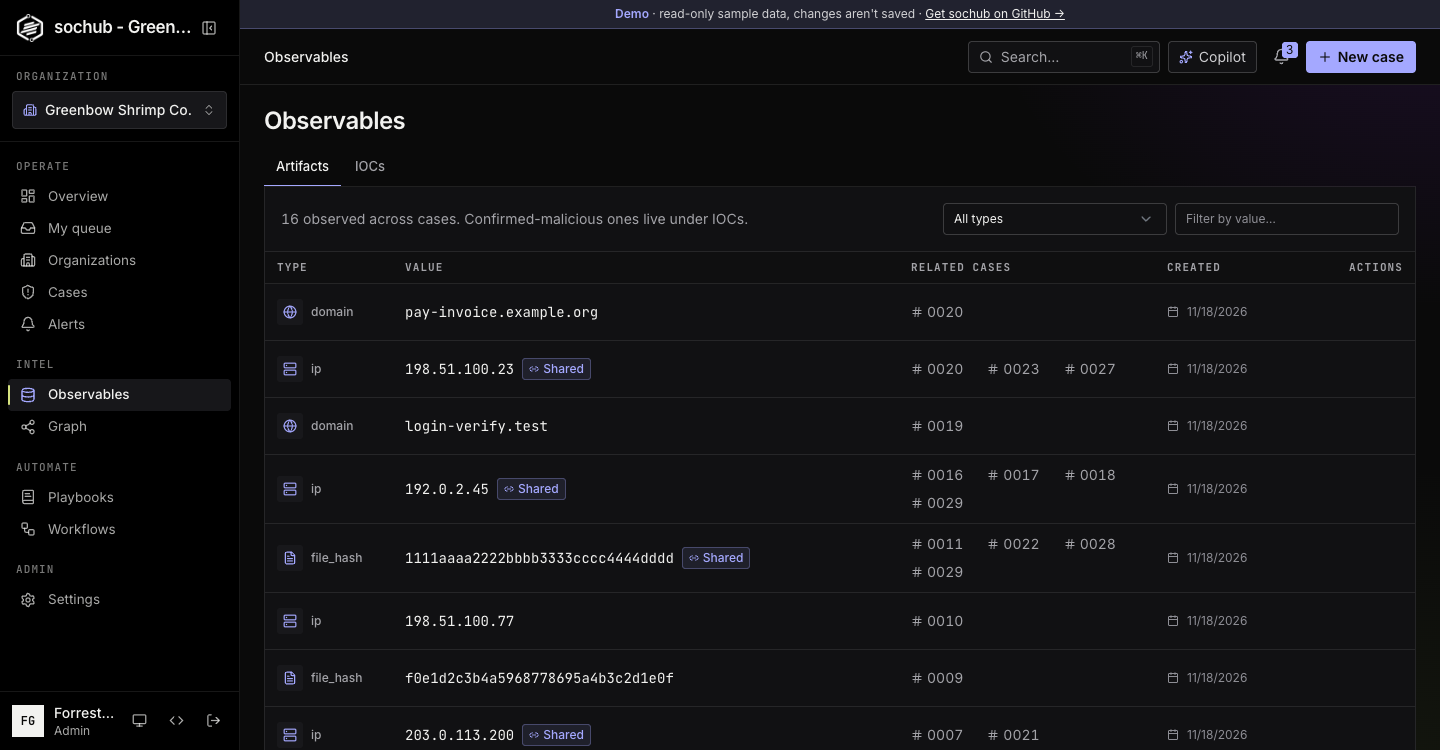
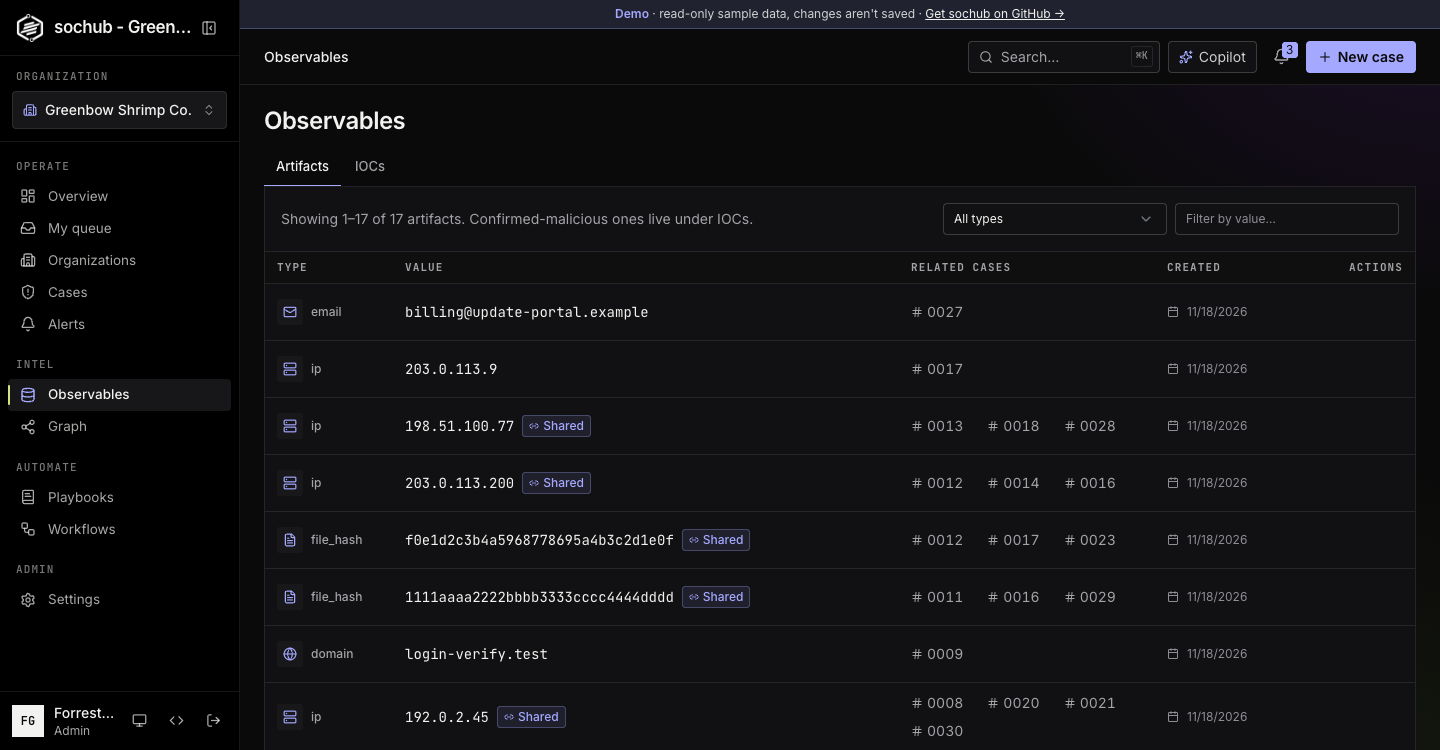
fix(demo): page and filter lists like the server; ci: render the chart with public URLs
The demo answered /cases/, /iocs/ and /artifacts/ with every row, so after
the server-side lists the overview counts and filtered views showed all
cases. The mock now applies the list filters, sort, skip/limit and
X-Total-Count. The demo also seeds two placeholder secrets so Integrations
shows the secrets list. Screenshots are retaken from the rebuilt demo, and
the tour script reads the copilot case id from the fixtures.

Helm CI rendered the chart with default values, which leave frontendUrl and
publicBaseUrl empty, and production mode refuses to render without them.
The default and all-components renders now pass example URLs.

diff --git a/frontend/src/demo/mock.ts b/frontend/src/demo/mock.ts
@@ -55,21 +55,48 @@ export async function installDemo(api: AxiosInstance): Promise<void> {
             return reply(config, 200, new Blob([typeof data === 'string' ? data : JSON.stringify(data)],
                 { type: svg ? 'image/svg+xml' : 'application/json' }));
         }
-        if (path === '/alerts/' && Array.isArray(data)) return alertsPage(config, data);
+        const me = (responses['/users/me'] as { id?: number } | undefined)?.id;
+        if (path in LISTS && Array.isArray(data)) return listPage(config, data, LISTS[path], me);
         return reply(config, 200, data);
     };
 }
 
-// The Alerts list pages on the server; mirror its filters, sort and X-Total-Count so the demo behaves the same.
+// Lists that page and filter on the server: mirror their filters, sort and X-Total-Count so the demo behaves the same.
+type Row = Record<string, unknown>;
+type P = Record<string, unknown>;
 const SEV_RANK: Record<string, number> = { critical: 0, high: 1, medium: 2, low: 3, info: 4 };
-function alertsPage(config: InternalAxiosRequestConfig, all: Record<string, unknown>[]): AxiosResponse {
-    const p = (config.params ?? {}) as Record<string, string | number | undefined>;
-    const rows = all.filter((a) => ['status', 'severity', 'source'].every((k) => p[k] == null || a[k] === p[k]));
+const SLA_STATES: Record<string, string[]> = { breached: ['breached'], at_risk: ['at_risk'], pressure: ['at_risk', 'breached'] };
+const anyOf = (v: unknown) => (v == null ? null : (Array.isArray(v) ? v : [v]).map(String));
+const has = (q: unknown, ...fields: unknown[]) => fields.some((f) => String(f ?? '').toLowerCase().includes(String(q).toLowerCase()));
+const t = (v: unknown) => Date.parse(String(v));
+
+const LISTS: Record<string, (r: Row, p: P, me?: number) => boolean> = {
+    '/alerts/': (a, p) => ['status', 'severity', 'source'].every((k) => p[k] == null || a[k] === p[k]),
+    '/cases/': (c, p, me) => {
+        const id = String(p.q ?? '').trim().replace(/^#/, '');
+        return (!anyOf(p.status) || anyOf(p.status)!.includes(String(c.status)))
+            && (!anyOf(p.severity) || anyOf(p.severity)!.includes(String(c.severity)))
+            && (p.owner == null || (p.owner === 'me' ? c.owner_id === me : p.owner === 'unassigned' ? c.owner_id == null : String(c.owner_id) === String(p.owner)))
+            && (p.tag == null || (c.tags as string[] | undefined ?? []).includes(String(p.tag)))
+            && (!id || has(id, c.title, c.description) || String(c.id) === id)
+            && (p.sla == null || (SLA_STATES[String(p.sla)] ?? []).includes(String(c.sla_overall_status)))
+            && (p.outcome == null || (p.outcome === 'not_set' ? c.outcome == null : c.outcome === p.outcome))
+            && (p.created_from == null || t(c.created_at) >= t(p.created_from))
+            && (p.created_before == null || t(c.created_at) < t(p.created_before));
+    },
+    '/iocs/': (i, p) => (p.q == null || has(p.q, i.value)) && ['ioc_type', 'status', 'case_id'].every((k) => p[k] == null || String(i[k]) === String(p[k])),
+    '/artifacts/': (a, p) => (p.q == null || has(p.q, a.value)) && (p.artifact_type == null || a.artifact_type === p.artifact_type),
+};
+
+function listPage(config: InternalAxiosRequestConfig, all: Row[], keep: (r: Row, p: P, me?: number) => boolean, me?: number): AxiosResponse {
+    const p = (config.params ?? {}) as P;
+    const rows = all.filter((r) => keep(r, p, me));
     const sort = String(p.sort ?? '-created_at');
-    const key = (a: Record<string, unknown>) => sort.endsWith('severity') ? SEV_RANK[String(a.severity)] ?? 9 : Date.parse(String(a.created_at));
-    // 'severity' = most severe first (rank ascending), 'created_at' = oldest first; a leading '-' reverses.
+    const field = sort.replace(/^-/, '');
+    const key = (r: Row) => field === 'severity' ? SEV_RANK[String(r.severity)] ?? 9 : field === 'id' ? Number(r.id) : t(r[field]) || 0;
+    // 'severity' = most severe first (rank ascending), dates and ids ascending; a leading '-' reverses.
     const dir = sort.startsWith('-') ? -1 : 1;
-    rows.sort((x, y) => dir * (key(x) - key(y)));
+    rows.sort((x, y) => dir * (key(x) - key(y)) || Number(y.id) - Number(x.id));
     const skip = Number(p.skip ?? 0), limit = Number(p.limit ?? 100);
     const res = reply(config, 200, rows.slice(skip, skip + limit));
     res.headers = { 'x-total-count': String(rows.length) };

diff --git a/backend/app/scripts/demo_fixtures.py b/backend/app/scripts/demo_fixtures.py
@@ -285,6 +285,11 @@ async def new_features(c: httpx.AsyncClient, tid: int, hero_ids: list[int]) -> N
     await c.put("/api/v1/ticketing/connection", json={"provider": "jira", "base_url": "https://greenbow.atlassian.net",
                                                       "credentials": {"email": "soc@greenbow.example", "token": "demo"},
                                                       "settings": {"project_key": "SEC"}, "auto_create_min_severity": "high"})
+    # Placeholder values: the API only ever returns names, hosts and descriptions, never the value.
+    for name, host, note in (("CROWDSTRIKE_API", "api.crowdstrike.com", "Falcon API client for containment"),
+                             ("SLACK_WEBHOOK", "hooks.slack.com", "Fallback channel for paging")):
+        await c.post("/api/v1/secrets/", json={"name": name, "value": "demo-placeholder", "allowed_hosts": [host],
+                                               "description": note})
     rules = [("Okta: Forrest's cross-country runs", [{"field": "source", "op": "equals", "value": "okta"},
                                                       {"field": "title", "op": "contains", "value": "impossible travel"}],
               "He really is running across the country.", 14, 30),
@@ -381,7 +386,7 @@ async def capture(c: httpx.AsyncClient, case_ids: list[int]) -> dict:
               "/notifications/", "/notifications/unread-count", "/tenants/", "/tenants/sla-policies", "/artifact-types/",
               "/ai/info", "/enrichment/config", "/audit-logs", "/audit-logs/facets", "/tenants/current/report-branding",
               "/tenants/current/security", "/tenants/current/guests", "/openapi.json",
-              "/suppressions/", "/ticketing/connection", "/ticketing/status", "/containment/policy", "/containment/actions",
+              "/suppressions/", "/secrets/", "/ticketing/connection", "/ticketing/status", "/containment/policy", "/containment/actions",
               "/portfolio/", "/stats/team-insights", "/stats/analyst-workload"]  # workload: default range (this week)
     per_case = ["/cases/{id}", "/artifacts/case/{id}", "/cases/{id}/tasks", "/cases/{id}/events", "/cases/{id}/assets",
                 "/cases/{id}/attachments", "/cases/{id}/follow", "/cases/{id}/report", "/audit-logs/case/{id}",
